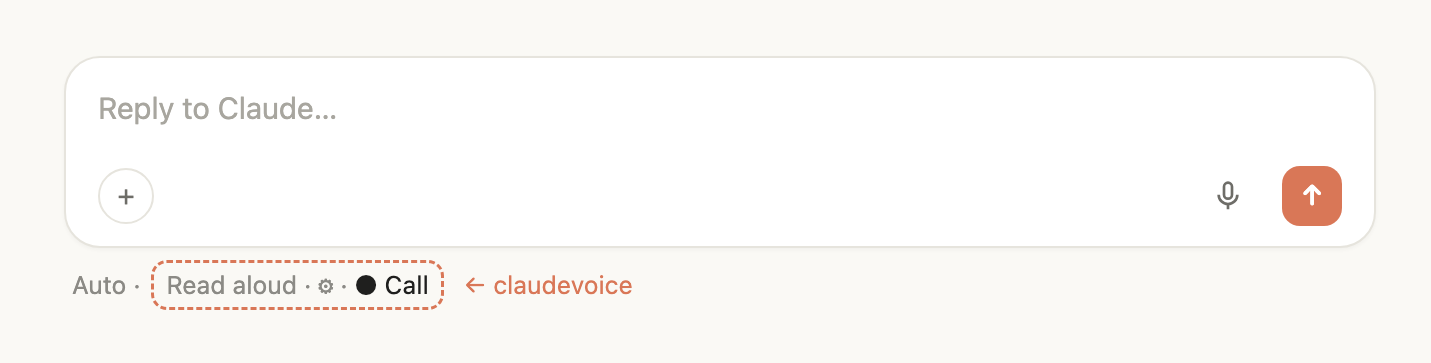
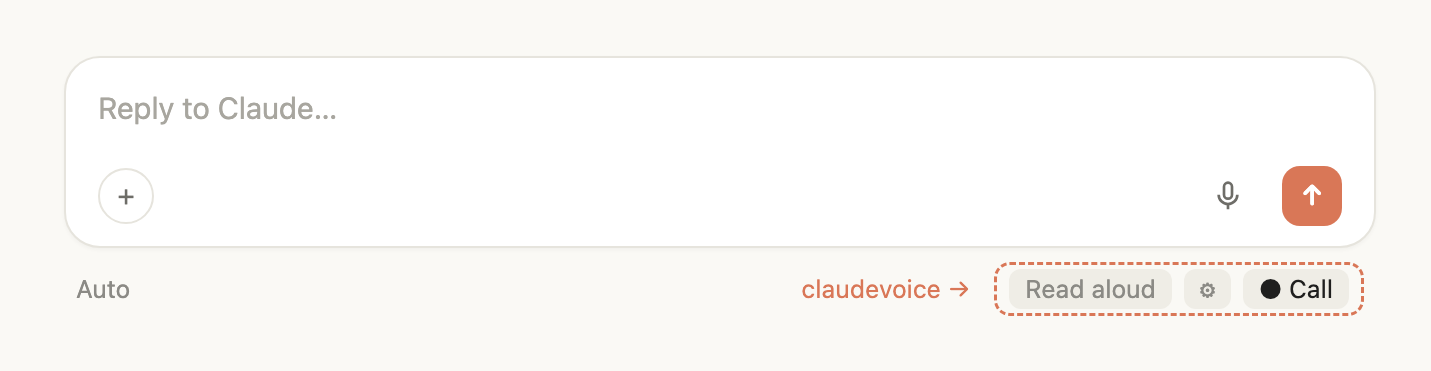
README: new footer images, reading files aloud
Redraw the footer and call images from what the plugin draws now (pills
on the right of the footer, the live glyph in the gear, End), and add an
image for reading a file (Read aloud, then Pause with progress, then
Resume). The text covers the gear as indicator, End in the app, Call
stepping aside while a file is read, and two troubleshooting notes. The
footer now draws a status word after End, where the app shows it.

diff --git a/hooks/register.tsx b/hooks/register.tsx
@@ -908,6 +908,7 @@ async function footer($: Engine, e: Surface, modes: readonly string[]) {
       add(<Button key="mute" label={isMuted ? 'Unmute' : 'Mute'} plain {...(isMuted ? lit : quiet)} onPress={() => void toggleMute($)} />)
     }
   }
+  let trailing: JSX.Element | null = null // a word the app draws after the buttons
   if (isTerminal) {
     const live = isOn ? await indicator($, e) : null
     add(
@@ -925,12 +926,13 @@ async function footer($: Engine, e: Surface, modes: readonly string[]) {
       ? `${s.glyph}${s.progress !== '' ? ` ${s.progress}` : ''} `
       : ''
     add(<Button key="settings" label={`${inGear}⚙`} plain {...(inGear !== '' ? lit : quiet)} onPress={() => void openSettings($)} />)
-    if (worded) items.push(await indicator($, e) ?? <Text key="indicator" />)
+    if (worded) trailing = await indicator($, e)
   }
   if (isOn) {
     if (inCall) add(<Button key="end" label={isTerminal ? 'End call' : 'End'} plain {...lit} onPress={() => void endCall($, '')} />)
     else if (isTerminal || !isReading) add(<Button key="call" label="● Call" plain {...lit} onPress={() => void startCall($)} />)
   }
+  if (trailing) items.push(trailing)
   return <Box flexShrink={0} alignItems="center">{items}</Box>
 }
 

diff --git a/README.md b/README.md
@@ -5,7 +5,7 @@ your Claude Code chat: you speak, Claude answers out loud when you've finished, 
 any time. It all runs on your computer.
 
 <p align="center">
-  <img src="docs/images/footer.png" width="640" alt="The Claude Code prompt box. Under it, claudevoice adds Read aloud, a settings gear and a Call button.">
+  <img src="docs/images/footer.png" width="640" alt="The Claude Code prompt box. On the right of its footer, claudevoice adds Read aloud, a settings gear and a Call button.">
 </p>
 
 - **Just talk.** Pause to think as long as you like; Claude answers when you sound finished.
@@ -31,17 +31,20 @@ any time. It all runs on your computer.
 
 ## A call, step by step
 
-The controls live in the prompt footer and change with the call. Only the buttons you can use right
-now are shown, and a small indicator beside the gear says what is happening.
+The controls sit on the right of the prompt footer and change with the call. Only the buttons you
+can use right now are shown. The gear doubles as the live indicator: a moving bar while Claude
+speaks, a dot while it listens (◉ once it hears you), and a word while it starts, writes down what
+you said, or thinks.
 
 <p align="center">
-  <img src="docs/images/call.png" alt="Seven footer states: idle with Call; Claude speaking with Stop and Mute; your turn with Done and Mute, listening; hearing you; muted; writing it down; Claude thinking.">
+  <img src="docs/images/call.png" width="640" alt="Seven footer states: Read aloud, gear and Call; Claude speaking with Stop, Mute, a bar by the gear and End; your turn with Done, Mute, a dot by the gear and End; hearing you; muted with Unmute; writing it down; Claude thinking.">
 </p>
 
 - **Done** sends what you said right away, without waiting for the pause.
 - **Mute** pauses the mic. Nothing is recorded while muted, and what you already said is kept.
 - **Stop** cuts Claude's voice. Talking over it does the same.
-- **End call** stops the mic and the voice. It never cancels work Claude is doing.
+- **End call** (**End** in the desktop app, where the footer is narrow) stops the mic and the voice.
+  It never cancels work Claude is doing.
 - **Read aloud** (outside a call) speaks the last reply once, or a file ([below](#reading-files-aloud)).
 - Switch headphones, speakers or microphones whenever you like: the voice and the mic follow your
   system's current devices, even mid-turn.
@@ -63,11 +66,17 @@ finished sentence ends it after a short pause. A long pause ends it anyway, and 
    A path dragged into the box works too.
 4. **Otherwise**, Claude's last reply.
 
+<p align="center">
+  <img src="docs/images/read.png" width="640" alt="Reading a file aloud: Read aloud, then Pause and Stop with a bar and 12% by the gear while it reads, then Resume and Stop with 25% once paused.">
+</p>
+
 Why copy in the Files pane: the app tells plugins what you've highlighted in the chat, but not in
 the Files pane, and not which file is open there.
 
 While a file is being read, **Pause** keeps your place, **Resume** carries on from the sentence you
-paused in, and **Stop** ends it. The indicator by the gear shows how far it has got.
+paused in, and **Stop** ends it. The gear shows how far it has got. **Call** steps aside while a
+file is being read, to keep the footer short; **Stop** brings it back. If Claude starts talking or
+you start a call, the reading pauses instead of being lost.
 
 You can also type `/read notes.md`, or `/read report.pdf 12` to start at page 12 (for a text file,
 the number is a line).
@@ -227,6 +236,10 @@ Edits reach a running session with `/reload-plugins` when the plugin was install
 ## Troubleshooting
 
 - Logs: `~/.claudevoice/server.log` (speech) and `~/.claudevoice/claudevoice.log` (hooks).
+- **Read aloud** read something you copied earlier: it reads anything copied since you last
+  pressed it. Press **Stop**, then **Read aloud** again for Claude's reply.
+- The footer ends in "…": the app gives it a fixed width and cuts what doesn't fit. Hover over it
+  to see the whole row, or widen the window.
 - "speech recognition is not allowed": turn on **Claude Voice transcription** in System Settings,
   Privacy & Security, Speech Recognition.
 - Windows: "turn on Online speech recognition": Windows Settings, Privacy & security, Speech. The
